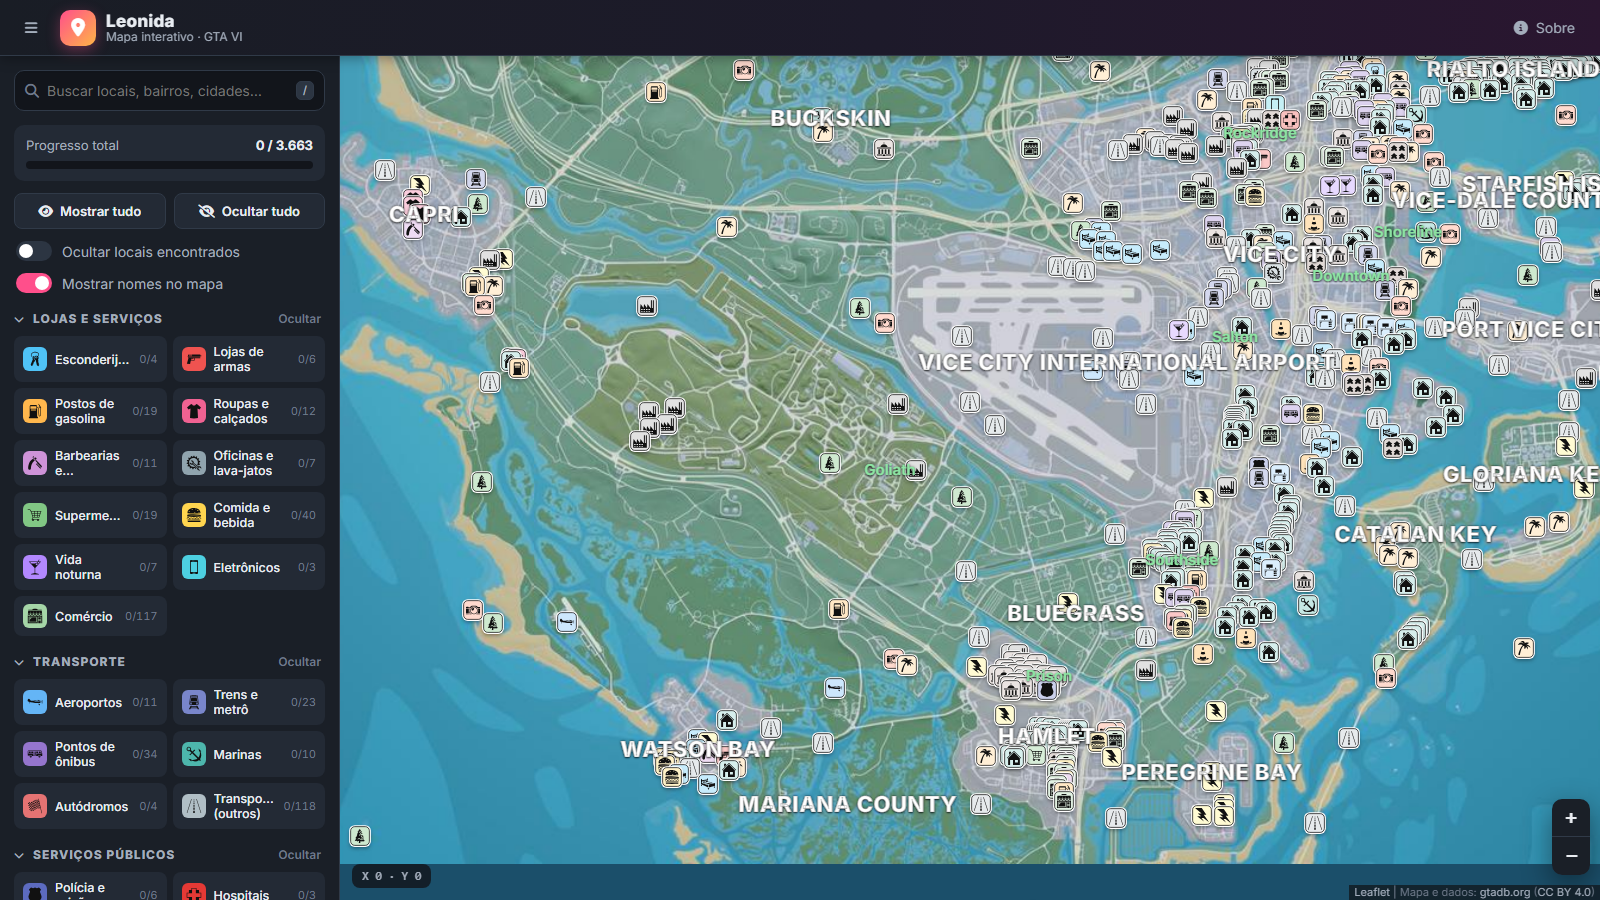
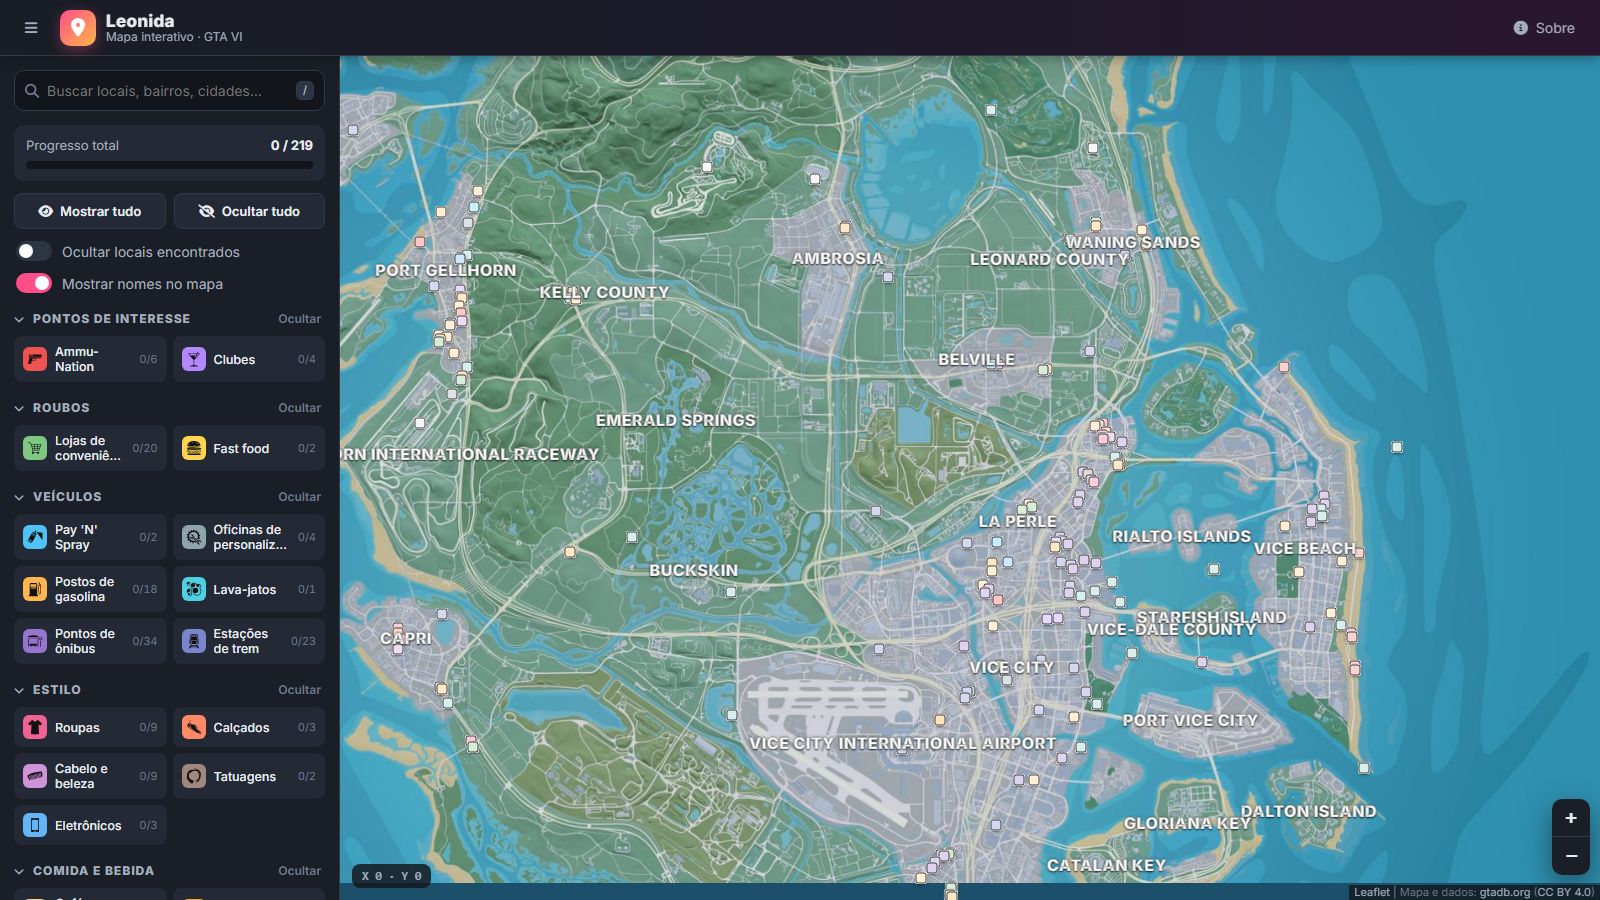
Somente as categorias do MapGenie que têm dados no gtadb
- 20 categorias em 7 grupos, na mesma organização do MapGenie
  (Pontos de interesse, Roubos, Veículos, Estilo, Comida e bebida,
  Locais WAiNK, Corridas); 219 locais
- Locais fora dessas categorias saem do mapa (os nomes de regiões continuam)
- Novos ícones de game-icons.net para as categorias novas; créditos atualizados
- README e capturas atualizados

diff --git a/js/categorias.js b/js/categorias.js
@@ -1,58 +1,67 @@
 /*
- * Categorias em português, derivadas das tags do banco de dados gtadb.org.
- * Cada categoria lista as tags de origem ("tags") que a definem.
+ * Categorias em português, organizadas nos mesmos grupos do MapGenie
+ * (mapgenie.io/grand-theft-auto-6/maps/leonida), mantendo apenas as
+ * categorias que têm dados no banco aberto do gtadb.org.
+ *
+ * "tags" lista as tags do gtadb que definem cada categoria.
  * A ordem importa: um local recebe a PRIMEIRA categoria cujas tags ele possui.
+ * Locais sem nenhuma dessas tags não aparecem no mapa.
+ * O ícone de cada categoria fica em icones/<id>.svg.
  */
 window.GRUPOS = [
   {
-    id: 'lojas', nome: 'Lojas e serviços',
+    id: 'interesse', nome: 'Pontos de interesse',
     categorias: [
-      { id: 'esconderijo', nome: 'Esconderijos', icone: 'fa-house-lock', cor: '#4fc3f7', tags: ['#safehouse'] },
-      { id: 'armas', nome: 'Lojas de armas', icone: 'fa-gun', cor: '#ef5350', tags: ['#guns'] },
-      { id: 'posto', nome: 'Postos de gasolina', icone: 'fa-gas-pump', cor: '#ffb74d', tags: ['#gas'] },
-      { id: 'roupas', nome: 'Roupas e calçados', icone: 'fa-shirt', cor: '#f06292', tags: ['#clothes', '#shoes'] },
-      { id: 'estetica', nome: 'Barbearias e tatuagens', icone: 'fa-scissors', cor: '#ce93d8', tags: ['#hair', '#tattoos'] },
-      { id: 'oficina', nome: 'Oficinas e lava-jatos', icone: 'fa-wrench', cor: '#90a4ae', tags: ['#modshop', "#pay'n'spray", '#carwash'] },
-      { id: 'mercado', nome: 'Supermercados', icone: 'fa-cart-shopping', cor: '#81c784', tags: ['#supermarket', 'supermarket'] },
-      { id: 'comida', nome: 'Comida e bebida', icone: 'fa-burger', cor: '#ffd54f', tags: ['#food', '#fastfood', '#drinks', '#vendor', 'restaurant'] },
-      { id: 'noite', nome: 'Vida noturna', icone: 'fa-martini-glass', cor: '#b388ff', tags: ['#bar', '#nightclub', '#stripclub'] },
-      { id: 'eletronicos', nome: 'Eletrônicos', icone: 'fa-mobile-screen', cor: '#4dd0e1', tags: ['#electronics'] },
-      { id: 'comercio', nome: 'Comércio', icone: 'fa-store', cor: '#a5d6a7', tags: ['retail'] }
+      { id: 'armas', nome: 'Ammu-Nation', singular: 'Ammu-Nation', cor: '#ef5350', tags: ['#guns'] },
+      { id: 'clube', nome: 'Clubes', singular: 'Clube', cor: '#b388ff', tags: ['#nightclub', '#stripclub'] }
     ]
   },
   {
-    id: 'transporte', nome: 'Transporte',
+    id: 'roubos', nome: 'Roubos',
     categorias: [
-      { id: 'aeroporto', nome: 'Aeroportos', icone: 'fa-plane', cor: '#64b5f6', tags: ['#airport', '#airbase'] },
-      { id: 'trem', nome: 'Trens e metrô', icone: 'fa-train-subway', cor: '#7986cb', tags: ['#train', '#metro', '#metromover'] },
-      { id: 'onibus', nome: 'Pontos de ônibus', icone: 'fa-bus', cor: '#9575cd', tags: ['#bus'] },
-      { id: 'marina', nome: 'Marinas', icone: 'fa-anchor', cor: '#4db6ac', tags: ['#marina'] },
-      { id: 'autodromo', nome: 'Autódromos', icone: 'fa-flag-checkered', cor: '#e57373', tags: ['#racetrack'] },
-      { id: 'transporte', nome: 'Transporte (outros)', icone: 'fa-road', cor: '#b0bec5', tags: ['transportation'] }
+      { id: 'conveniencia', nome: 'Lojas de conveniência', singular: 'Loja de conveniência', cor: '#81c784', tags: ['#supermarket', 'supermarket'] },
+      { id: 'fastfood', nome: 'Fast food', singular: 'Fast food', cor: '#ffd54f', tags: ['#fastfood'] }
     ]
   },
   {
-    id: 'publico', nome: 'Serviços públicos',
+    id: 'veiculos', nome: 'Veículos',
     categorias: [
-      { id: 'policia', nome: 'Polícia e prisões', icone: 'fa-shield-halved', cor: '#5c6bc0', tags: ['#police', '#jail'] },
-      { id: 'hospital', nome: 'Hospitais', icone: 'fa-hospital', cor: '#e53935', tags: ['#hospital'] },
-      { id: 'governo', nome: 'Governo', icone: 'fa-landmark-dome', cor: '#bcaaa4', tags: ['government'] },
-      { id: 'publico', nome: 'Espaços públicos', icone: 'fa-people-group', cor: '#a1887f', tags: ['public'] },
-      { id: 'infra', nome: 'Infraestrutura', icone: 'fa-bolt', cor: '#fff176', tags: ['utilities'] }
+      { id: 'paynspray', nome: "Pay 'N' Spray", singular: "Pay 'N' Spray", cor: '#4fc3f7', tags: ["#pay'n'spray"] },
+      { id: 'modshop', nome: 'Oficinas de personalização', singular: 'Oficina', cor: '#90a4ae', tags: ['#modshop'] },
+      { id: 'posto', nome: 'Postos de gasolina', singular: 'Posto de gasolina', cor: '#ffb74d', tags: ['#gas'] },
+      { id: 'lavajato', nome: 'Lava-jatos', singular: 'Lava-jato', cor: '#4dd0e1', tags: ['#carwash'] },
+      { id: 'onibus', nome: 'Pontos de ônibus', singular: 'Ponto de ônibus', cor: '#9575cd', tags: ['#bus'] },
+      { id: 'trem', nome: 'Estações de trem', singular: 'Estação', cor: '#7986cb', tags: ['#train', '#metro', '#metromover'] }
     ]
   },
   {
-    id: 'locais', nome: 'Locais',
+    id: 'estilo', nome: 'Estilo',
     categorias: [
-      { id: 'turismo', nome: 'Pontos turísticos', icone: 'fa-camera', cor: '#ff8a65', tags: ['landmark', 'point-of-interest', '#ferriswheel', '#blimp'] },
-      { id: 'hotel', nome: 'Hotéis', icone: 'fa-hotel', cor: '#4fc3f7', tags: ['hotel'] },
-      { id: 'lazer', nome: 'Lazer e esportes', icone: 'fa-umbrella-beach', cor: '#ffcc80', tags: ['leisure', '#tennis', 'events'] },
-      { id: 'natureza', nome: 'Natureza', icone: 'fa-tree', cor: '#66bb6a', tags: ['natural', 'agriculture'] },
-      { id: 'residencial', nome: 'Residências', icone: 'fa-house', cor: '#80cbc4', tags: ['residential'] },
-      { id: 'escritorio', nome: 'Escritórios', icone: 'fa-building', cor: '#90caf9', tags: ['office'] },
-      { id: 'industria', nome: 'Indústria', icone: 'fa-industry', cor: '#a1a1a1', tags: ['industrial'] },
-      { id: 'obra', nome: 'Em construção', icone: 'fa-helmet-safety', cor: '#ffa726', tags: ['construction'] },
-      { id: 'outros', nome: 'Outros locais', icone: 'fa-location-dot', cor: '#e0e0e0', tags: [] }
+      { id: 'roupas', nome: 'Roupas', singular: 'Loja de roupas', cor: '#f06292', tags: ['#clothes'] },
+      { id: 'calcados', nome: 'Calçados', singular: 'Loja de calçados', cor: '#ff8a65', tags: ['#shoes'] },
+      { id: 'cabelo', nome: 'Cabelo e beleza', singular: 'Cabelo e beleza', cor: '#ce93d8', tags: ['#hair'] },
+      { id: 'tatuagem', nome: 'Tatuagens', singular: 'Estúdio de tatuagem', cor: '#a1887f', tags: ['#tattoos'] },
+      { id: 'eletronicos', nome: 'Eletrônicos', singular: 'Loja de eletrônicos', cor: '#64b5f6', tags: ['#electronics'] }
+    ]
+  },
+  {
+    id: 'comida', nome: 'Comida e bebida',
+    categorias: [
+      { id: 'cafes', nome: 'Cafés e lanches', singular: 'Café / lanchonete', cor: '#ffcc80', tags: ['#food', '#drinks', 'restaurant'] },
+      { id: 'bar', nome: 'Bares', singular: 'Bar', cor: '#ffa726', tags: ['#bar'] },
+      { id: 'comidarua', nome: 'Comida de rua', singular: 'Comida de rua', cor: '#e57373', tags: ['#vendor'] }
+    ]
+  },
+  {
+    id: 'wainK', nome: 'Locais WAiNK',
+    categorias: [
+      { id: 'turismo', nome: 'Pontos turísticos', singular: 'Ponto turístico', cor: '#80cbc4', tags: ['landmark', 'point-of-interest', '#ferriswheel', '#blimp'] }
+    ]
+  },
+  {
+    id: 'corridas', nome: 'Corridas',
+    categorias: [
+      { id: 'autodromo', nome: 'Autódromos', singular: 'Autódromo', cor: '#e0e0e0', tags: ['#racetrack'] }
     ]
   }
 ];

diff --git a/js/app.js b/js/app.js
@@ -62,7 +62,7 @@
   /* ================= Estado ================= */
   const estado = {
     encontrados: new Set(store.get('encontrados', [])),
-    ocultas: new Set(store.get('ocultas', ['outros'])), // "Outros locais" começa oculto
+    ocultas: new Set(store.get('ocultas', [])),
     gruposFechados: new Set(store.get('gruposFechados', [])),
     ocultarEncontrados: store.get('ocultarEncontrados', false),
     notas: store.get('notas', []),
@@ -81,19 +81,10 @@
   const CATS = {};
   const ORDEM = [];
   window.GRUPOS.forEach((g) => g.categorias.forEach((c) => { CATS[c.id] = c; ORDEM.push(c); }));
-  // Título usado quando o local não tem nome conhecido no jogo ("?")
-  const SINGULAR = {
-    esconderijo: 'Esconderijo', armas: 'Loja de armas', posto: 'Posto de gasolina', roupas: 'Loja de roupas',
-    estetica: 'Barbearia / tatuagem', oficina: 'Oficina', mercado: 'Supermercado', comida: 'Comida e bebida',
-    noite: 'Bar / casa noturna', eletronicos: 'Loja de eletrônicos', comercio: 'Comércio', aeroporto: 'Aeroporto',
-    trem: 'Estação', onibus: 'Ponto de ônibus', marina: 'Marina', autodromo: 'Autódromo', transporte: 'Transporte',
-    policia: 'Polícia', hospital: 'Hospital', governo: 'Prédio do governo', publico: 'Espaço público',
-    infra: 'Infraestrutura', turismo: 'Ponto turístico', hotel: 'Hotel', lazer: 'Lazer', natureza: 'Área natural',
-    residencial: 'Residência', escritorio: 'Escritório', industria: 'Indústria', obra: 'Em construção', outros: 'Local sem nome'
-  };
+  // Locais sem nenhuma tag das categorias retornam null e ficam fora do mapa
   function categoriaDe(tags) {
     for (const c of ORDEM) if (c.tags.some((t) => tags.includes(t))) return c;
-    return CATS.outros;
+    return null;
   }
 
   /* ================= Mapa ================= */
@@ -152,8 +143,9 @@
     const partes = String(v[0] || '').split(', ');
     const tags = (v[6] || []).filter((t) => !t.startsWith('//') && !/^l\d$/.test(t));
     const cat = categoriaDe(tags);
+    if (!cat) return null;
     const semNome = !partes[0] || partes[0] === '?';
-    const titulo = semNome ? (SINGULAR[cat.id] || 'Local sem nome') : partes[0];
+    const titulo = semNome ? (cat.singular || cat.nome) : partes[0];
     const sub = partes.slice(1).join(', ');
     return {
       id, titulo, semNome, sub, cat,
@@ -558,7 +550,8 @@
     .then((dados) => {
       LOCAIS = Object.entries(dados)
         .filter(([, v]) => Array.isArray(v[1]) && v[1].length === 2)
-        .map(([id, v]) => normalizarLocal(id, v));
+        .map(([id, v]) => normalizarLocal(id, v))
+        .filter(Boolean);
       LOCAIS.forEach((l) => { PORID.set(l.id, l); contagem[l.cat.id] = (contagem[l.cat.id] || 0) + 1; });
       renderCategorias();
       criarRotulos(dados);

diff --git a/index.html b/index.html
@@ -92,7 +92,7 @@
       <ul>
         <li><b>Locais, fotos e tiles do mapa:</b> <a href="https://github.com/rolux/gtadb.org" target="_blank" rel="noopener">gtadb.org e colaboradores</a>, sob licença <a href="https://creativecommons.org/licenses/by/4.0/deed.pt_BR" target="_blank" rel="noopener">CC BY 4.0</a>. As categorias e os textos foram traduzidos e reorganizados para este site.</li>
         <li><b>Mapa:</b> <a href="https://github.com/Leaflet/Leaflet" target="_blank" rel="noopener">Leaflet</a> (BSD-2).</li>
-        <li><b>Ícones do mapa:</b> <a href="https://game-icons.net" target="_blank" rel="noopener">game-icons.net</a>, por Delapouite, Lorc, Skoll, John Colburn e Andy Meneely, sob licença <a href="https://creativecommons.org/licenses/by/3.0/" target="_blank" rel="noopener">CC BY 3.0</a> (sem o fundo original). Detalhes em <code>icones/CREDITOS.md</code>.</li>
+        <li><b>Ícones do mapa:</b> <a href="https://game-icons.net" target="_blank" rel="noopener">game-icons.net</a>, por Delapouite, Lorc, John Colburn e Caro Asercion, sob licença <a href="https://creativecommons.org/licenses/by/3.0/" target="_blank" rel="noopener">CC BY 3.0</a> (sem o fundo original). Detalhes em <code>icones/CREDITOS.md</code>.</li>
         <li><b>Ícones da interface:</b> <a href="https://fontawesome.com" target="_blank" rel="noopener">Font Awesome Free</a> (CC BY 4.0 / SIL OFL).</li>
       </ul>
       <p class="pequeno">Grand Theft Auto e Leonida são marcas da Rockstar Games / Take-Two. Este é um projeto de fãs, sem afiliação. O mapa é uma reconstrução da comunidade e pode conter imprecisões.</p>

diff --git a/README.md b/README.md
@@ -4,7 +4,7 @@
 
 ### O mapa de **GTA VI** em português, direto no navegador
 
-Explore Vice City, as Keys, Grassrivers e o resto de Leonida com mais de **3.600 locais**, busca, fotos, progresso e notas pessoais.
+Explore Vice City, as Keys, Grassrivers e o resto de Leonida com **219 locais confirmados** nas mesmas categorias do MapGenie, busca, fotos, progresso e notas pessoais.
 
 <br>
 
@@ -16,7 +16,7 @@ Explore Vice City, as Keys, Grassrivers e o resto de Leonida com mais de **3.600
 ![Leaflet](https://img.shields.io/badge/Leaflet-1.9.4-199900?style=flat-square&logo=leaflet&logoColor=white)
 ![JavaScript](https://img.shields.io/badge/JavaScript-puro-f7df1e?style=flat-square&logo=javascript&logoColor=black)
 ![Idioma](https://img.shields.io/badge/idioma-PT--BR-009c3b?style=flat-square)
-![Locais](https://img.shields.io/badge/locais-3.663-ffb547?style=flat-square)
+![Locais](https://img.shields.io/badge/locais-219-ffb547?style=flat-square)
 ![Dados](https://img.shields.io/badge/dados-CC_BY_4.0-lightgrey?style=flat-square&logo=creativecommons&logoColor=white)
 
 <br>
@@ -48,7 +48,7 @@ Explore Vice City, as Keys, Grassrivers e o resto de Leonida com mais de **3.600
 <td width="50%" valign="top">
 
 ### 🏷 Categorias
-- **31 categorias** em **4 grupos**, com ícones e cores próprios
+- **20 categorias** em **7 grupos**, os mesmos do MapGenie, com ícones de jogo
 - Mostrar e ocultar por categoria, por grupo ou tudo de uma vez
 - Contador de encontrados por categoria (`3/19`)
 
@@ -87,14 +87,17 @@ Explore Vice City, as Keys, Grassrivers e o resto de Leonida com mais de **3.600
 
 | Grupo | Categorias |
 |---|---|
-| 🛍 **Lojas e serviços** | Esconderijos (4) · Lojas de armas (6) · Postos de gasolina (19) · Roupas e calçados (12) · Barbearias e tatuagens (11) · Oficinas e lava-jatos (7) · Supermercados (19) · Comida e bebida (40) · Vida noturna (7) · Eletrônicos (3) · Comércio (117) |
-| ✈ **Transporte** | Aeroportos (11) · Trens e metrô (23) · Pontos de ônibus (34) · Marinas (10) · Autódromos (4) · Transporte – outros (118) |
-| 🏛 **Serviços públicos** | Polícia e prisões (6) · Hospitais (3) · Governo (50) · Espaços públicos (30) · Infraestrutura (44) |
-| 🌴 **Locais** | Pontos turísticos (33) · Hotéis (71) · Lazer e esportes (69) · Natureza (102) · Residências (342) · Escritórios (9) · Indústria (92) · Em construção (13) · Outros locais (2.354) |
+| 📍 **Pontos de interesse** | Ammu-Nation (6) · Clubes (4) |
+| 💰 **Roubos** | Lojas de conveniência (20) · Fast food (2) |
+| 🚗 **Veículos** | Pay 'N' Spray (2) · Oficinas de personalização (4) · Postos de gasolina (18) · Lava-jatos (1) · Pontos de ônibus (34) · Estações de trem (23) |
+| 👕 **Estilo** | Roupas (9) · Calçados (3) · Cabelo e beleza (9) · Tatuagens (2) · Eletrônicos (3) |
+| 🍔 **Comida e bebida** | Cafés e lanches (32) · Bares (3) · Comida de rua (6) |
+| 📸 **Locais WAiNK** | Pontos turísticos (34) |
+| 🏁 **Corridas** | Autódromos (4) |
 
-> **Outros locais** reúne os pontos ainda sem nome ou tag no banco de dados. A categoria começa oculta para não poluir o mapa; ative-a no painel quando quiser.
+> Os grupos e categorias seguem os do [MapGenie](https://mapgenie.io/grand-theft-auto-6/maps/leonida), mas só entram as categorias que têm dados no banco aberto do gtadb. Colecionáveis, animais, veículos e atividades do MapGenie não existem no gtadb e por isso não aparecem aqui.
 >
-> Cerca de **2.400 locais têm foto** do jogo, e muitos também têm foto do lugar real que inspirou a construção.
+> **134 desses locais têm foto** do jogo, e muitos também têm foto do lugar real que inspirou a construção.
 
 </details>
 
@@ -199,7 +202,7 @@ Sugestões e correções são bem-vindas:
 |---|---|---|
 | Locais, fotos e tiles do mapa | [gtadb.org e colaboradores](https://github.com/rolux/gtadb.org) · [map.gtadb.org](https://map.gtadb.org) | [CC BY 4.0](https://creativecommons.org/licenses/by/4.0/deed.pt_BR) |
 | Biblioteca de mapas | [Leaflet](https://github.com/Leaflet/Leaflet) | BSD-2-Clause |
-| Ícones do mapa | [game-icons.net](https://game-icons.net): Delapouite, Lorc, Skoll, John Colburn, Andy Meneely ([lista completa](icones/CREDITOS.md)) | [CC BY 3.0](https://creativecommons.org/licenses/by/3.0/) |
+| Ícones do mapa | [game-icons.net](https://game-icons.net): Delapouite, Lorc, John Colburn, Caro Asercion ([lista completa](icones/CREDITOS.md)) | [CC BY 3.0](https://creativecommons.org/licenses/by/3.0/) |
 | Ícones da interface | [Font Awesome Free](https://fontawesome.com) | CC BY 4.0 / SIL OFL 1.1 |
 | Fonte | [Inter](https://rsms.me/inter/) via Google Fonts | SIL OFL 1.1 |
 

diff --git a/icones/CREDITOS.md b/icones/CREDITOS.md
@@ -6,35 +6,24 @@
 
 | Arquivo | Ícone original | Autor |
 |---|---|---|
-| `esconderijo.svg` | [house-keys](https://game-icons.net/1x1/delapouite/house-keys.html) | delapouite |
 | `armas.svg` | [pistol-gun](https://game-icons.net/1x1/john-colburn/pistol-gun.html) | john-colburn |
+| `clube.svg` | [martini](https://game-icons.net/1x1/lorc/martini.html) | lorc |
+| `conveniencia.svg` | [shopping-cart](https://game-icons.net/1x1/delapouite/shopping-cart.html) | delapouite |
+| `fastfood.svg` | [hamburger](https://game-icons.net/1x1/delapouite/hamburger.html) | delapouite |
+| `paynspray.svg` | [spray](https://game-icons.net/1x1/lorc/spray.html) | lorc |
+| `modshop.svg` | [auto-repair](https://game-icons.net/1x1/lorc/auto-repair.html) | lorc |
 | `posto.svg` | [gas-pump](https://game-icons.net/1x1/delapouite/gas-pump.html) | delapouite |
-| `roupas.svg` | [t-shirt](https://game-icons.net/1x1/delapouite/t-shirt.html) | delapouite |
-| `estetica.svg` | [razor](https://game-icons.net/1x1/delapouite/razor.html) | delapouite |
-| `oficina.svg` | [auto-repair](https://game-icons.net/1x1/lorc/auto-repair.html) | lorc |
-| `mercado.svg` | [shopping-cart](https://game-icons.net/1x1/delapouite/shopping-cart.html) | delapouite |
-| `comida.svg` | [hamburger](https://game-icons.net/1x1/delapouite/hamburger.html) | delapouite |
-| `noite.svg` | [martini](https://game-icons.net/1x1/lorc/martini.html) | lorc |
-| `eletronicos.svg` | [smartphone](https://game-icons.net/1x1/delapouite/smartphone.html) | delapouite |
-| `comercio.svg` | [shop](https://game-icons.net/1x1/delapouite/shop.html) | delapouite |
-| `aeroporto.svg` | [airplane](https://game-icons.net/1x1/skoll/airplane.html) | skoll |
+| `lavajato.svg` | [bubbles](https://game-icons.net/1x1/lorc/bubbles.html) | lorc |
+| `onibus.svg` | [bus-stop](https://game-icons.net/1x1/caro-asercion/bus-stop.html) | caro-asercion |
 | `trem.svg` | [subway](https://game-icons.net/1x1/delapouite/subway.html) | delapouite |
-| `onibus.svg` | [bus](https://game-icons.net/1x1/delapouite/bus.html) | delapouite |
-| `marina.svg` | [anchor](https://game-icons.net/1x1/lorc/anchor.html) | lorc |
-| `autodromo.svg` | [checkered-flag](https://game-icons.net/1x1/delapouite/checkered-flag.html) | delapouite |
-| `transporte.svg` | [road](https://game-icons.net/1x1/delapouite/road.html) | delapouite |
-| `policia.svg` | [police-badge](https://game-icons.net/1x1/andymeneely/police-badge.html) | andymeneely |
-| `hospital.svg` | [hospital-cross](https://game-icons.net/1x1/lorc/hospital-cross.html) | lorc |
-| `governo.svg` | [capitol](https://game-icons.net/1x1/lorc/capitol.html) | lorc |
-| `publico.svg` | [meeple-group](https://game-icons.net/1x1/delapouite/meeple-group.html) | delapouite |
-| `infra.svg` | [power-lightning](https://game-icons.net/1x1/lorc/power-lightning.html) | lorc |
+| `roupas.svg` | [t-shirt](https://game-icons.net/1x1/delapouite/t-shirt.html) | delapouite |
+| `calcados.svg` | [running-shoe](https://game-icons.net/1x1/delapouite/running-shoe.html) | delapouite |
+| `cabelo.svg` | [comb](https://game-icons.net/1x1/lorc/comb.html) | lorc |
+| `tatuagem.svg` | [ink-swirl](https://game-icons.net/1x1/lorc/ink-swirl.html) | lorc |
+| `eletronicos.svg` | [smartphone](https://game-icons.net/1x1/delapouite/smartphone.html) | delapouite |
+| `cafes.svg` | [coffee-cup](https://game-icons.net/1x1/delapouite/coffee-cup.html) | delapouite |
+| `bar.svg` | [beer-stein](https://game-icons.net/1x1/lorc/beer-stein.html) | lorc |
+| `comidarua.svg` | [hot-dog](https://game-icons.net/1x1/delapouite/hot-dog.html) | delapouite |
 | `turismo.svg` | [photo-camera](https://game-icons.net/1x1/delapouite/photo-camera.html) | delapouite |
-| `hotel.svg` | [bed](https://game-icons.net/1x1/delapouite/bed.html) | delapouite |
-| `lazer.svg` | [palm-tree](https://game-icons.net/1x1/delapouite/palm-tree.html) | delapouite |
-| `natureza.svg` | [pine-tree](https://game-icons.net/1x1/lorc/pine-tree.html) | lorc |
-| `residencial.svg` | [house](https://game-icons.net/1x1/delapouite/house.html) | delapouite |
-| `escritorio.svg` | [desk](https://game-icons.net/1x1/delapouite/desk.html) | delapouite |
-| `industria.svg` | [factory](https://game-icons.net/1x1/delapouite/factory.html) | delapouite |
-| `obra.svg` | [traffic-cone](https://game-icons.net/1x1/delapouite/traffic-cone.html) | delapouite |
-| `outros.svg` | [position-marker](https://game-icons.net/1x1/delapouite/position-marker.html) | delapouite |
+| `autodromo.svg` | [checkered-flag](https://game-icons.net/1x1/delapouite/checkered-flag.html) | delapouite |
 | `nota.svg` | [pin](https://game-icons.net/1x1/delapouite/pin.html) | delapouite |
